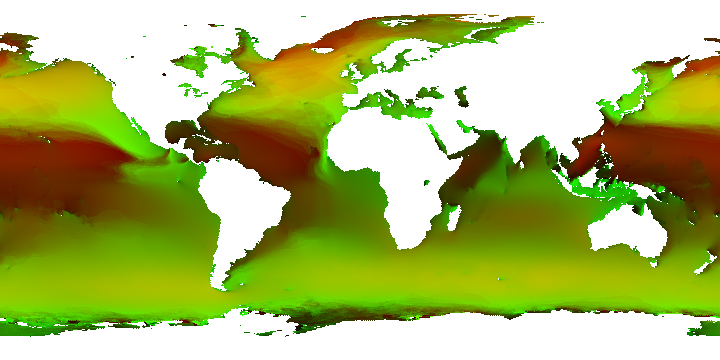
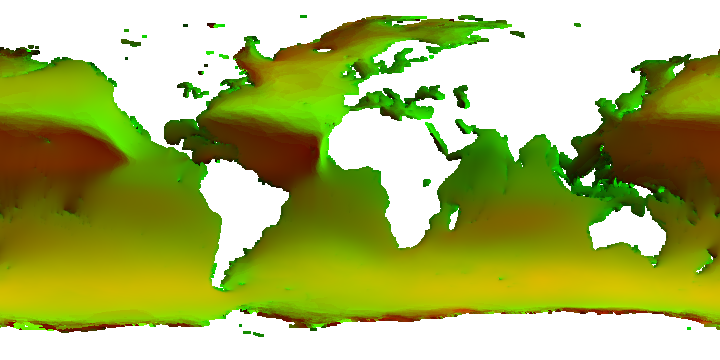
pics and more!

diff --git a/hackathon/src/main.js b/hackathon/src/main.js
@@ -10,8 +10,8 @@ import fragmentSource from './shaders/fragment.glsl?raw';
       container: 'map', // container ID
       projection: 'mercator',
       style: "mapbox://styles/mapbox/dark-v11",
-      center: [-50,27],
-      zoom: 2,
+      center: [-80,27],
+      zoom: 5,
       minZoom: 2,
       pitchWithRotate: false,
       dragRotate: false,
